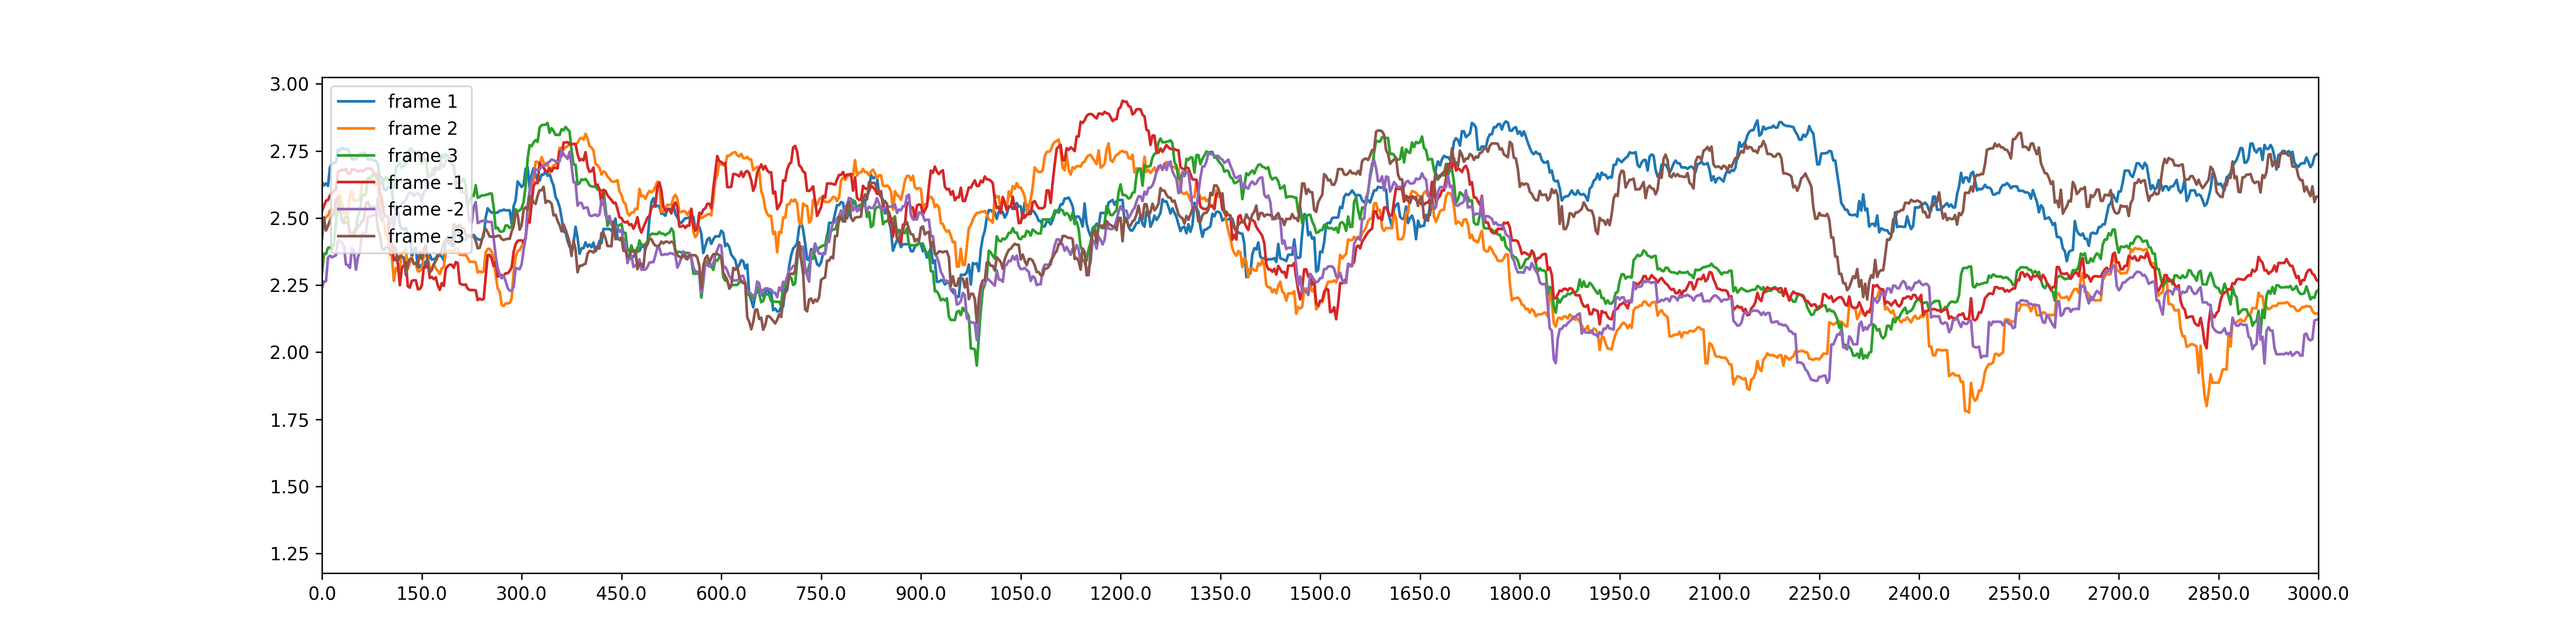
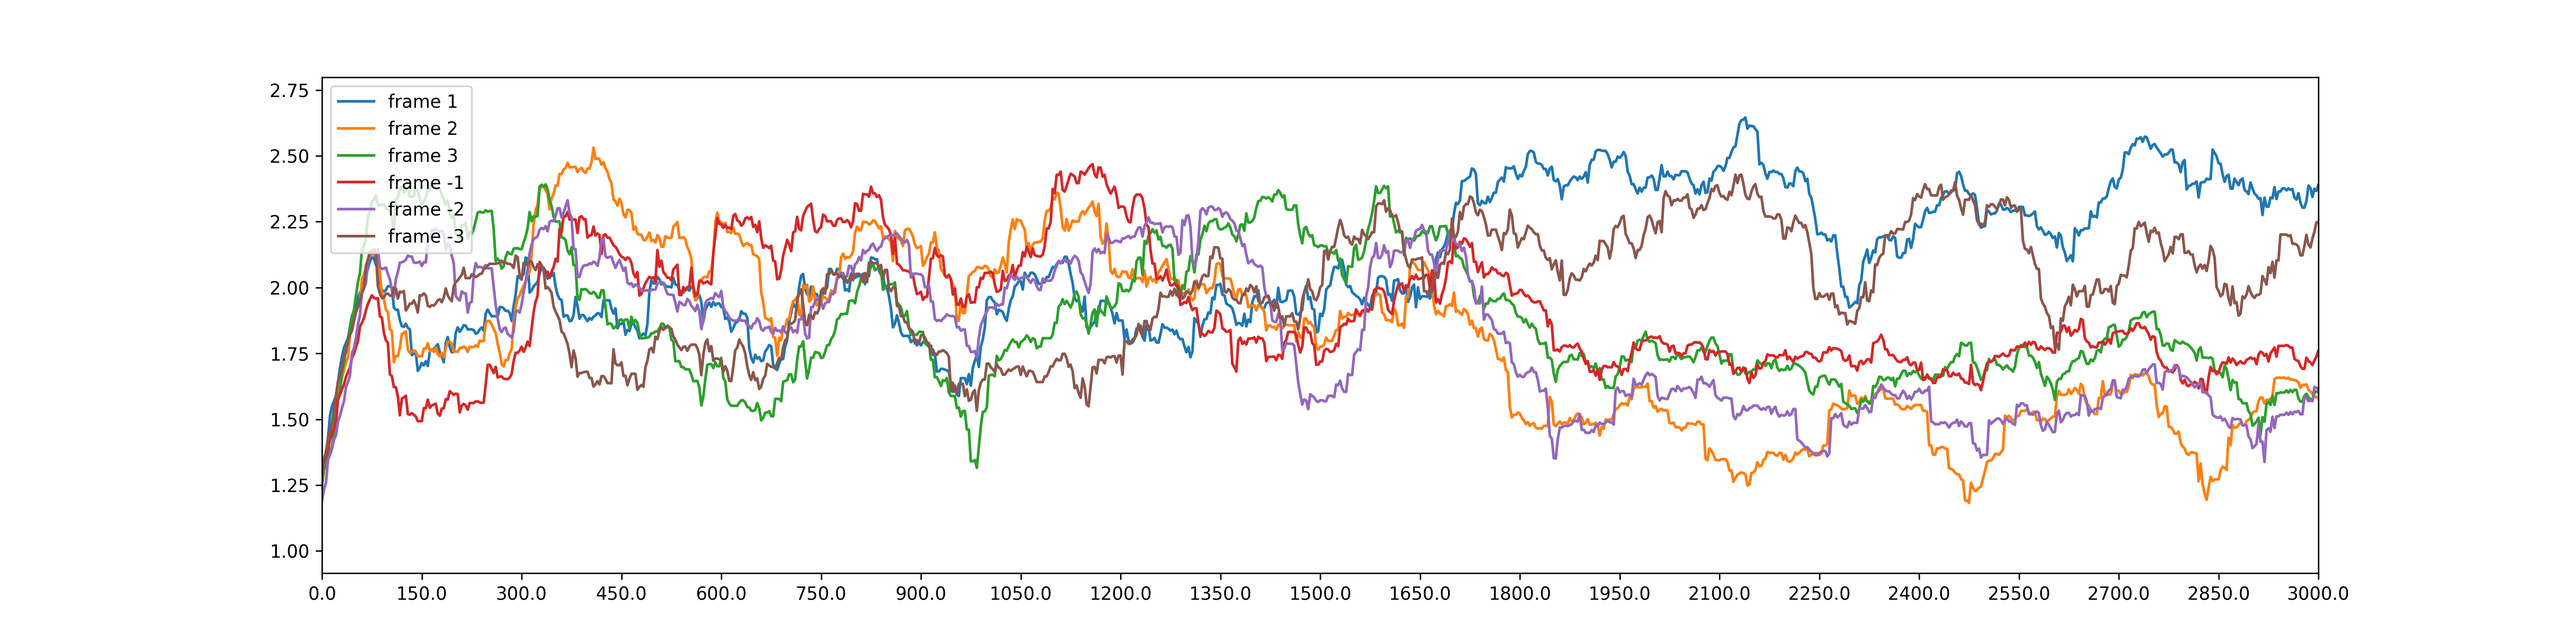
Added new modules

diff --git a/modules/nucleotide_entropy.py b/modules/nucleotide_entropy.py
@@ -5,35 +5,7 @@ from math import log
 import sys
 import itertools
 
-class Base:
-    def __init__(self, nucl):
-       self.nucl = nucl
-       self.next = None
- 
-class Codon:
-    def __init__(self):
-        self.head = None
-        self.tail = None
- 
-    def push(self,  nucl):
-        if self.head is None:
-            self.head = Base(nucl)
-        else:
-            new_nucl = Base(nucl)
-            new_nucl.next = self.head
-            self.head = new_nucl
-
-    def pull(self):
-        pass
- 
-    def pop(self):
-        if self.head is None:
-            return None
-        else:
-            popped = self.head.nucl
-            self.head = self.head.next
-            return popped
-
+from modules.codon_probability import CodonProbability
 
 
 class NucleotideEntropy:
@@ -64,6 +36,9 @@ class NucleotideEntropy:
 
 		self.complement = {'A': 'T', 'C': 'G', 'G': 'C', 'T': 'A', '-': '-'}
 
+		
+		self.codon_probs = CodonProbability(nucleotides)
+
 		for i, nucl in enumerate(nucleotides):
 			# find nucleotide frequency
 			self.frame = next(self.frames)
@@ -72,7 +47,7 @@ class NucleotideEntropy:
 			# find shannon entropy
 			#se = self.trinucleotide_entropy(self.frequency[self.frame])
 			#se = self.dinucleotide_entropy(self.frequency[self.frame])
-			print(i, nucl, self.codon)	
+			#print(i, nucl, self.codon)	
 			se = self.peptide_entropy(self.frequency[self.frame])
 			self.entropy[self.frame].append(se)
 
@@ -119,11 +94,13 @@ class NucleotideEntropy:
 
 	def peptide_entropy(self, dictionary):
 		se = 0;
+		#se0 = 0;
 		new_dict = dict()
 		total = 0
 		for key in dictionary:
 			if '-' not in key and dictionary[key]:
 				aa = self.translate[''.join(key)]
+				#se0 += -self.codon_probs.probability(aa) * log(self.codon_probs.probability(aa))
 				count = new_dict.get(aa, 0)
 				new_dict[aa] = dictionary[key] + count 
 				#total += dictionary[key] + count
@@ -131,10 +108,8 @@ class NucleotideEntropy:
 			new_dict[key] = new_dict[key] / self.amino_acids.count(key)
 			total += new_dict[key]
 		for key in new_dict:
-			p = new_dict[key] / total
+			p = new_dict[key] / 22 #total
 			se += -p * log(p)
-		print(se)
-		print(new_dict)
 		return se
 
 	def dinucleotide_entropy(self, dictionary):

diff --git a/modules/codon.py b/modules/codon.py
@@ -1,0 +1,57 @@
+from __future__ import division
+from collections import deque
+from decimal import Decimal
+from math import log
+import sys
+import itertools
+
+class Base:
+    def __init__(self, nucl=None):
+       self.nucl = nucl
+       self.next = None
+
+    def __str__(self):
+        """Compute the string representation of the base"""
+        return "%s" % (self.nucl)
+
+    def __repr__(self):
+        """Compute the string representation of the base"""
+        return "%s(%s)" % (self.__class__.__name__, self.nucl)
+ 
+class Codon:
+    def __init__(self, nucl=None):
+        self.head = Base(nucl)
+        self.tail = self.head
+        self.push(nucl)
+        self.push(nucl)
+
+    def add(self, nucl):
+        self.push(nucl)
+        return self.pull()
+ 
+    def push(self,  nucl=None):
+        self.tail.next = Base(nucl)
+        self.tail = self.tail.next
+
+    def pull(self):
+        pulled_base = self.head
+        self.head = self.head.next
+        return pulled_base
+ 
+    def pop(self):
+        #popped = self.tail
+        #self.tail = self.tail.next
+        #return popped
+        pass
+
+    def __str__(self):
+        return "%s%s%s" % (self.head, self.head.next, self.tail)
+
+    def __repr__(self):
+        """Compute the string representation of the base"""
+        return "%s(%s %s %s)" % (self.__class__.__name__,
+                                 repr(self.head),
+                                 repr(self.head.next),
+                                 repr(self.tail)
+                                 )
+

diff --git a/modules/codon_probability.py b/modules/codon_probability.py
@@ -1,0 +1,43 @@
+
+class CodonProbability:
+
+	def __init__(self, dna):
+		base_counts = {'A':0, 'T':0, 'G':0, 'C':0}
+		for base in dna:
+			base_counts[base] += 1
+		A = base_counts['A'] / sum(base_counts.values())
+		T = base_counts['T'] / sum(base_counts.values())
+		G = base_counts['G'] / sum(base_counts.values())
+		C = base_counts['C'] / sum(base_counts.values())
+		self.codons = {
+			'F' : T*T*T + T*T*C,
+			'L' : C*T*T + C*T*C + C*T*A + C*T*G + T*T*A + T*T*G,
+			'I' : A*T*T + A*T*C,
+			'M' : A*T*G,
+			'V' : G*T*T + G*T*C + G*T*A + G*T*G,
+			'S' : T*C*T + T*C*C + T*C*A + T*C*G + A*G*T + A*G*C,
+			'P' : C*C*T + C*C*C + C*C*A + C*C*G,
+			'T' : A*C*T + A*C*C + A*C*A + A*C*G,
+			'A' : G*C*T + G*C*C + G*C*A + G*C*G,
+			'Y' : T*A*T + T*A*C,
+			'*' : T*A*A + T*A*G + T*G*A,
+			'H' : C*A*T + C*A*C,
+			'Q' : C*A*A + C*A*G,
+			'N' : A*A*T + A*A*C,
+			'K' : A*A*A + A*A*G,
+			'D' : G*A*T + G*A*C,
+			'E' : G*A*A + G*A*G,
+			'C' : T*G*T + T*G*C,
+			'W' : T*G*G,
+			'R' : C*G*T + C*G*C + C*G*A + C*G*G + A*G*A + A*G*G,
+			'G' : G*G*T + G*G*C + G*G*A + G*G*G
+		}
+
+	def probability(self, codon):
+		return self.codons[codon]
+
+#my_probs = CodonProbability('ATGC')
+#print(my_probs.probability('M'))
+#print(my_probs.probability('S'))
+		
+
